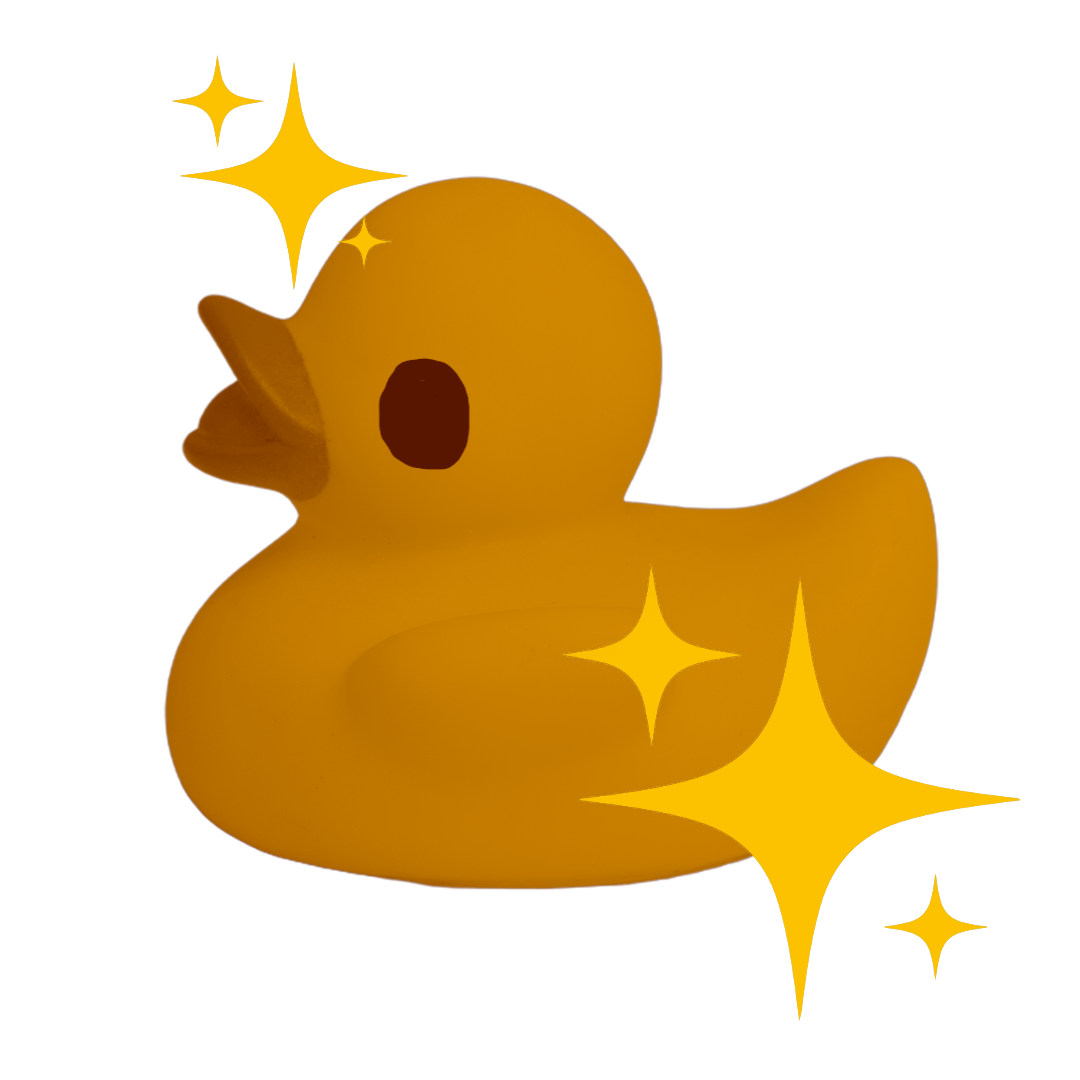
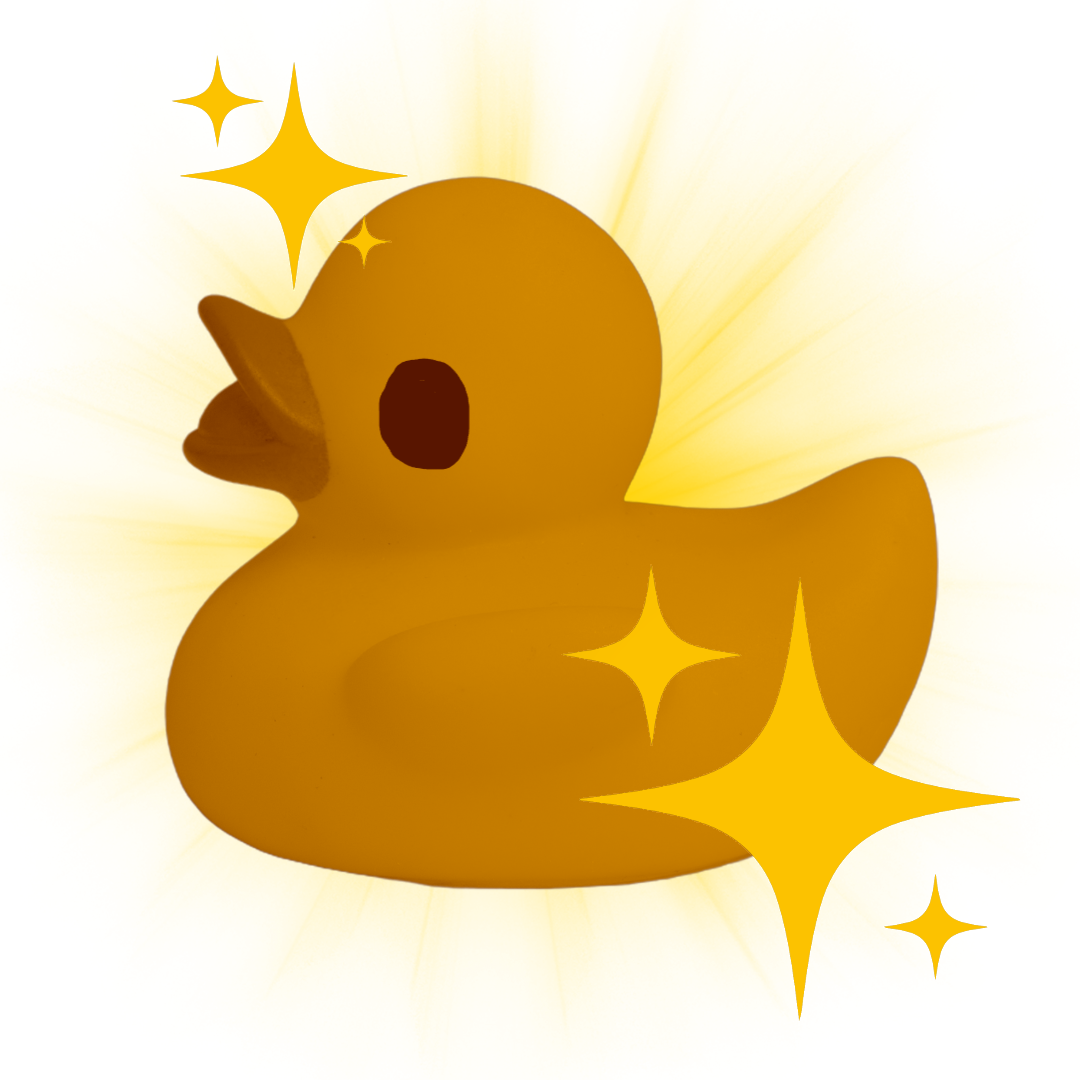
added shiny effect, not complete.

Changed region(s): [[0.0306, 0.0306, 0.9167, 0.9472], [0.7944, 0.5806, 0.8861, 0.7333], [0.8556, 0.5194, 0.8861, 0.55]]

diff --git a/main.py b/main.py
@@ -90,6 +90,15 @@ last_save_time = 0
 
 last_duck_second = pygame.time.get_ticks()
 
+shiny_active = False
+shiny_timer = 0
+shiny_duration = 30000
+
+shiny_dpc_multiplier = 3
+shiny_dps_multiplier = 2
+
+shiny_duck_icon = load_scaled("assets/Images/ShinyDuck.png", 40, 40)
+
 
 #---------------------#
 #--------AUDIO--------#
@@ -300,7 +309,7 @@ def wrap_text(text, font, max_width):
 
 def draw_upgrade_rows(screen, game_data, manager):
     start_x = sx(20)
-    start_y = screen_height - sy(250)
+    start_y = screen_height - sy(255)
     spacing_x = sx(50)
     spacing_y = sy(50)
 
@@ -440,7 +449,7 @@ while running:
     duck_header = pygame.transform.scale_by(duck_header, pulse)
     screen.blit(duck_header, duck_header.get_rect(centerx=screen_width // 2, y=sy(40)))
 
-    ducks_per_sec_text = fonts["large"].render(f"{game_data['ducksPerSecond']:,} Ducks Per Second", False, (255, 255, 255))
+    ducks_per_sec_text = fonts["large"].render(f"+{DPS} Ducks Per Second", False, (255, 255, 255))
     screen.blit(ducks_per_sec_text, ducks_per_sec_text.get_rect(centerx=screen_width // 2, y=sy(100)))
 
     store_text_title = fonts["large"].render("Store", False, (255, 255, 255)) 
@@ -468,18 +477,38 @@ while running:
                 mouse_pos = event.pos
                 for duck in ducks[:]:
                     if duck.rect.collidepoint(mouse_pos):
-                        game_data["ducks"] += game_data["ducksPerClick"]
+
+                        if duck.shiny:
+                            shiny_active = True
+                            shiny_timer = shiny_duration
+                        
+                        DPC = game_data["ducksPerClick"]
+                        if shiny_active:
+                            DPC *= shiny_dpc_multiplier
+
+                        game_data["ducks"] += DPC
+                        
                         ducks.remove(duck)
                         duck_pop_effects.append(DuckPopEffect(duck.image, duck.rect.center))
                         current_time_now = pygame.time.get_ticks()
                         duck_click_sound.play()
-                            
-                        floating_texts.append(
-                            FloatingText    (
-                                f"+{game_data['ducksPerClick']}",
-                                duck.rect.center
+                        
+                        if shiny_active:
+                            floating_texts.append(
+                                FloatingText(
+                                    f"+{DPC}",
+                                    duck.rect.center,
+                                    color=(255, 220, 80)
+                                )
                             )
-                        )
+
+                        else:
+                            floating_texts.append(
+                                FloatingText(
+                                    f"+{DPC}",
+                                    duck.rect.center
+                                )
+                            )
                         break
 
                 bought, cost = upgade_manager.clicked(mouse_pos, game_data)
@@ -499,6 +528,43 @@ while running:
                 elif cost > 0:
                     cannot_afford_message = f"Cannot afford, need {cost - game_data['ducks']:,} more ducks!"
                     cannot_afford_timer = current_time + 3000
+
+
+    duck_time = clock.get_time()
+
+    if shiny_active:
+        shiny_timer -= duck_time
+        
+        if shiny_timer <= 0:
+            shiny_active = False
+
+
+    if shiny_active:
+        size = sx(45)
+        padding = sx(8)
+
+        x = screen_width // 2 - size // 2
+        y = sy(150)
+
+        pulse = 1 + 0.08 * math.sin(pygame.time.get_ticks() * 0.01)
+
+        icon = pygame.transform.scale_by(shiny_duck_icon, pulse)
+
+        rect = pygame.Rect(x, y, size, size)
+
+        overlay = pygame.Surface((screen_width, screen_height), pygame.SRCALPHA)
+        overlay.fill((255, 255, 120, 25))
+        screen.blit(overlay, (0,0))
+
+        pygame.draw.rect(screen, (255, 215, 0), rect)
+        pygame.draw.rect(screen, (255, 255, 255), rect, sx(2))
+
+        icon_rect = icon.get_rect(center=rect.center)
+        screen.blit(icon, icon_rect)
+
+        seconds = int(shiny_timer / 1000)
+        timer_text = fonts["small"].render(f"{seconds}s", False, (255, 255, 255))
+        screen.blit(timer_text, timer_text.get_rect(midtop=(rect.centerx, rect.bottom + sy(4))))
 
 
     #----Auto Save----#
@@ -536,7 +602,12 @@ while running:
 
     #----Ducks per second----#
     if current_time - last_duck_second >= 1000:
-        game_data["ducks"] += game_data["ducksPerSecond"]
+        DPS = game_data["ducksPerSecond"]
+
+        if shiny_active:
+            DPS *= shiny_dps_multiplier
+
+        game_data["ducks"] += DPS
         last_duck_second += 1000
         
 
